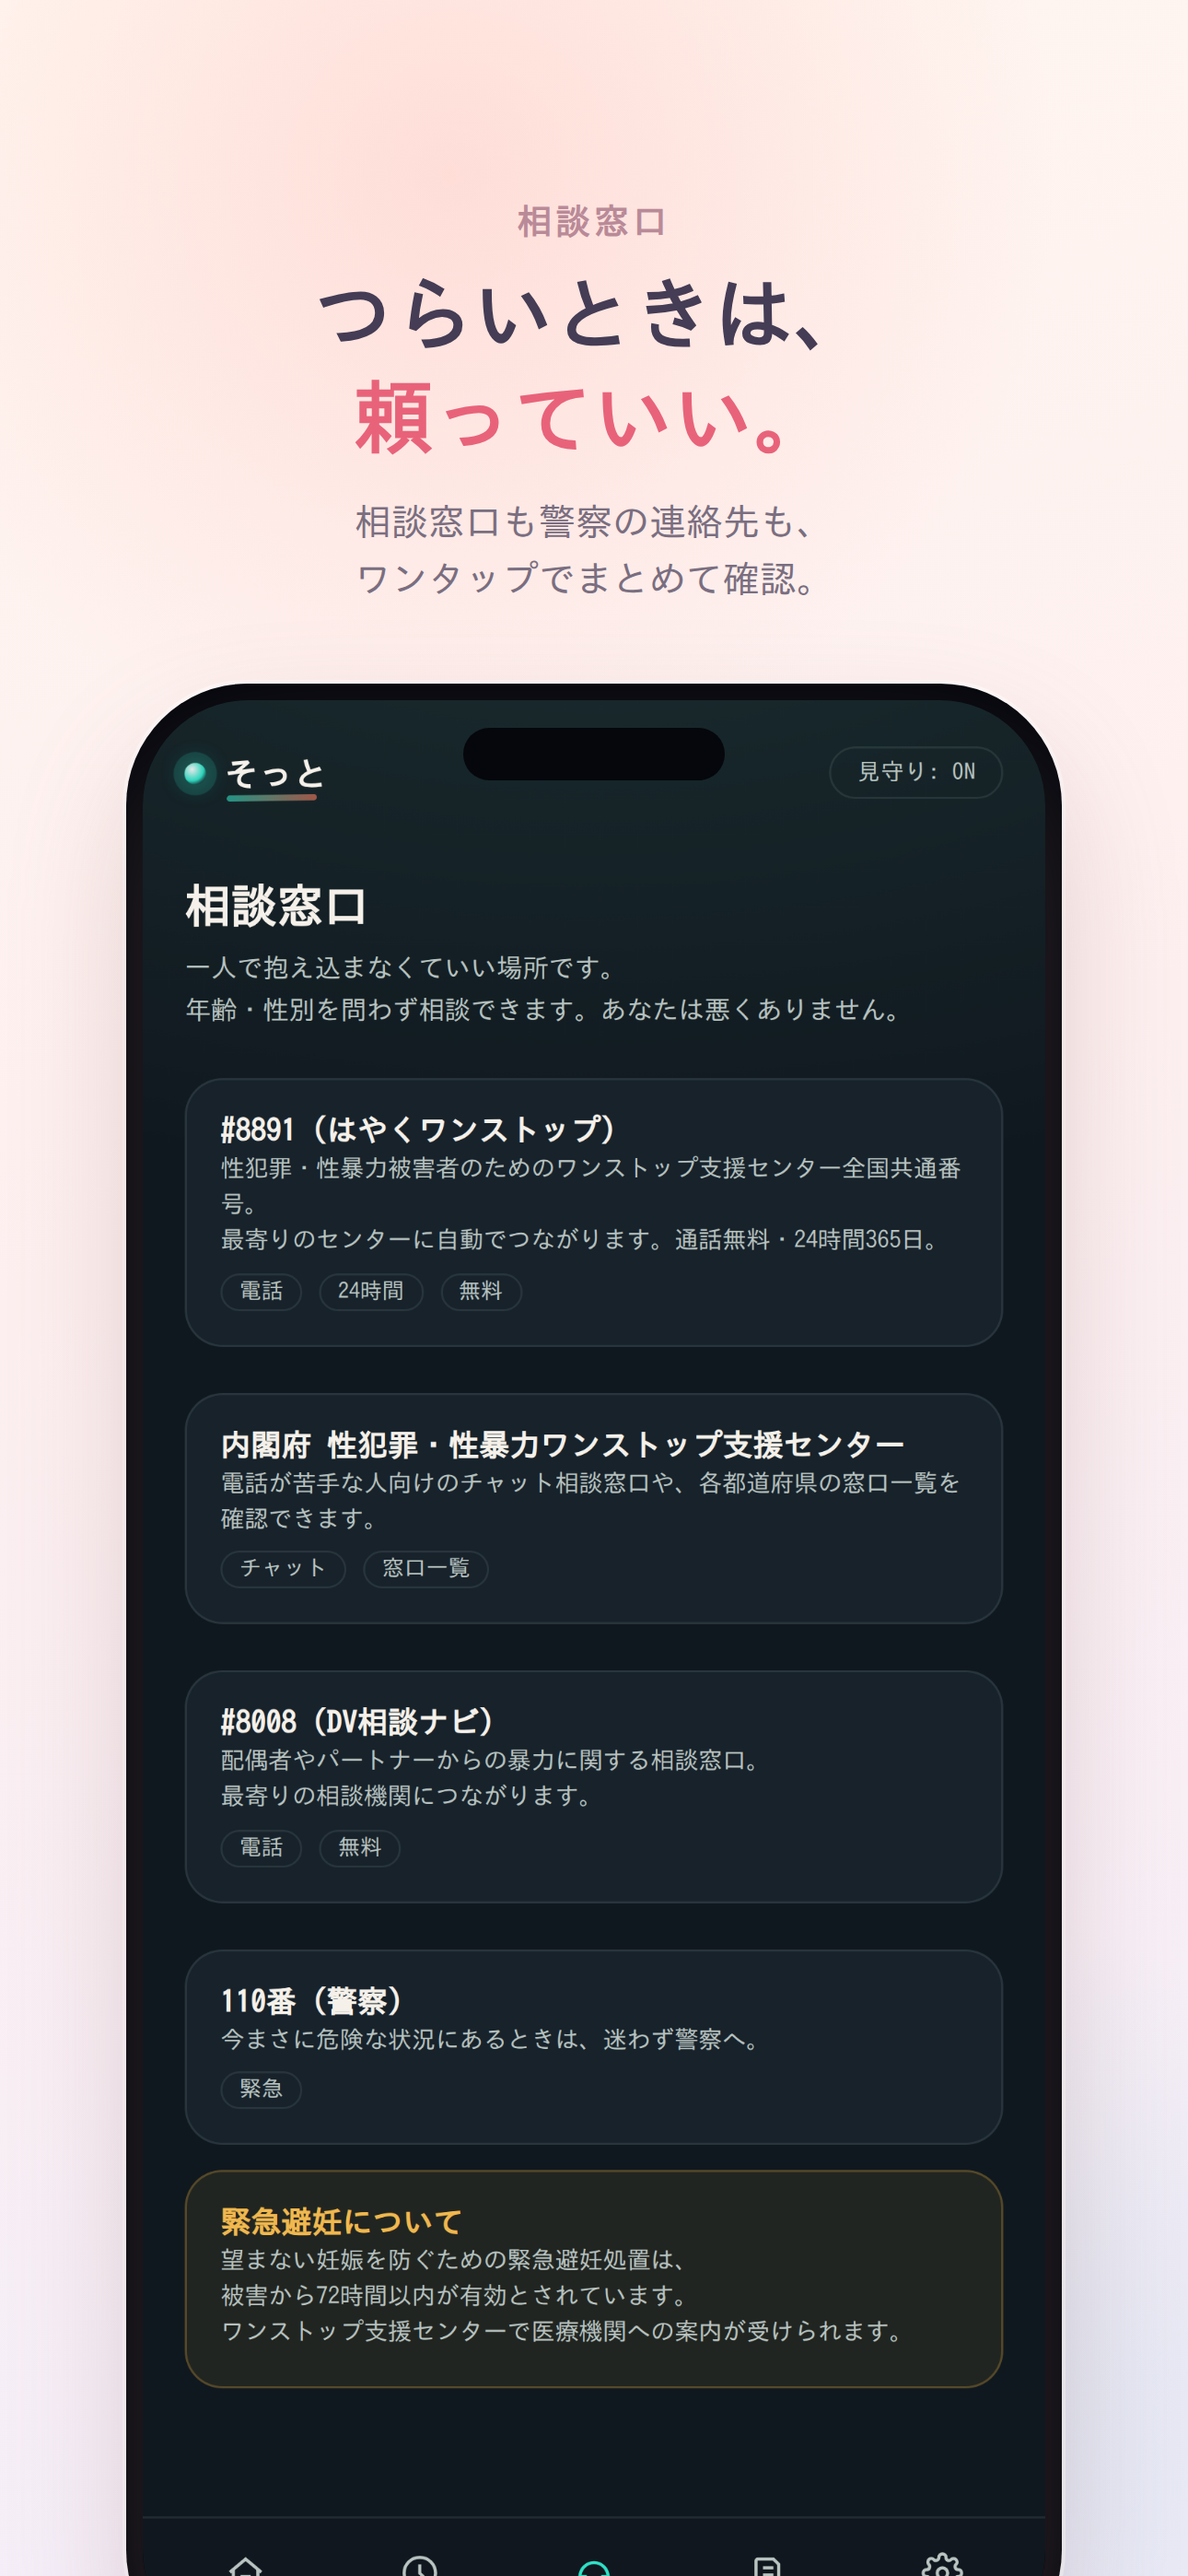
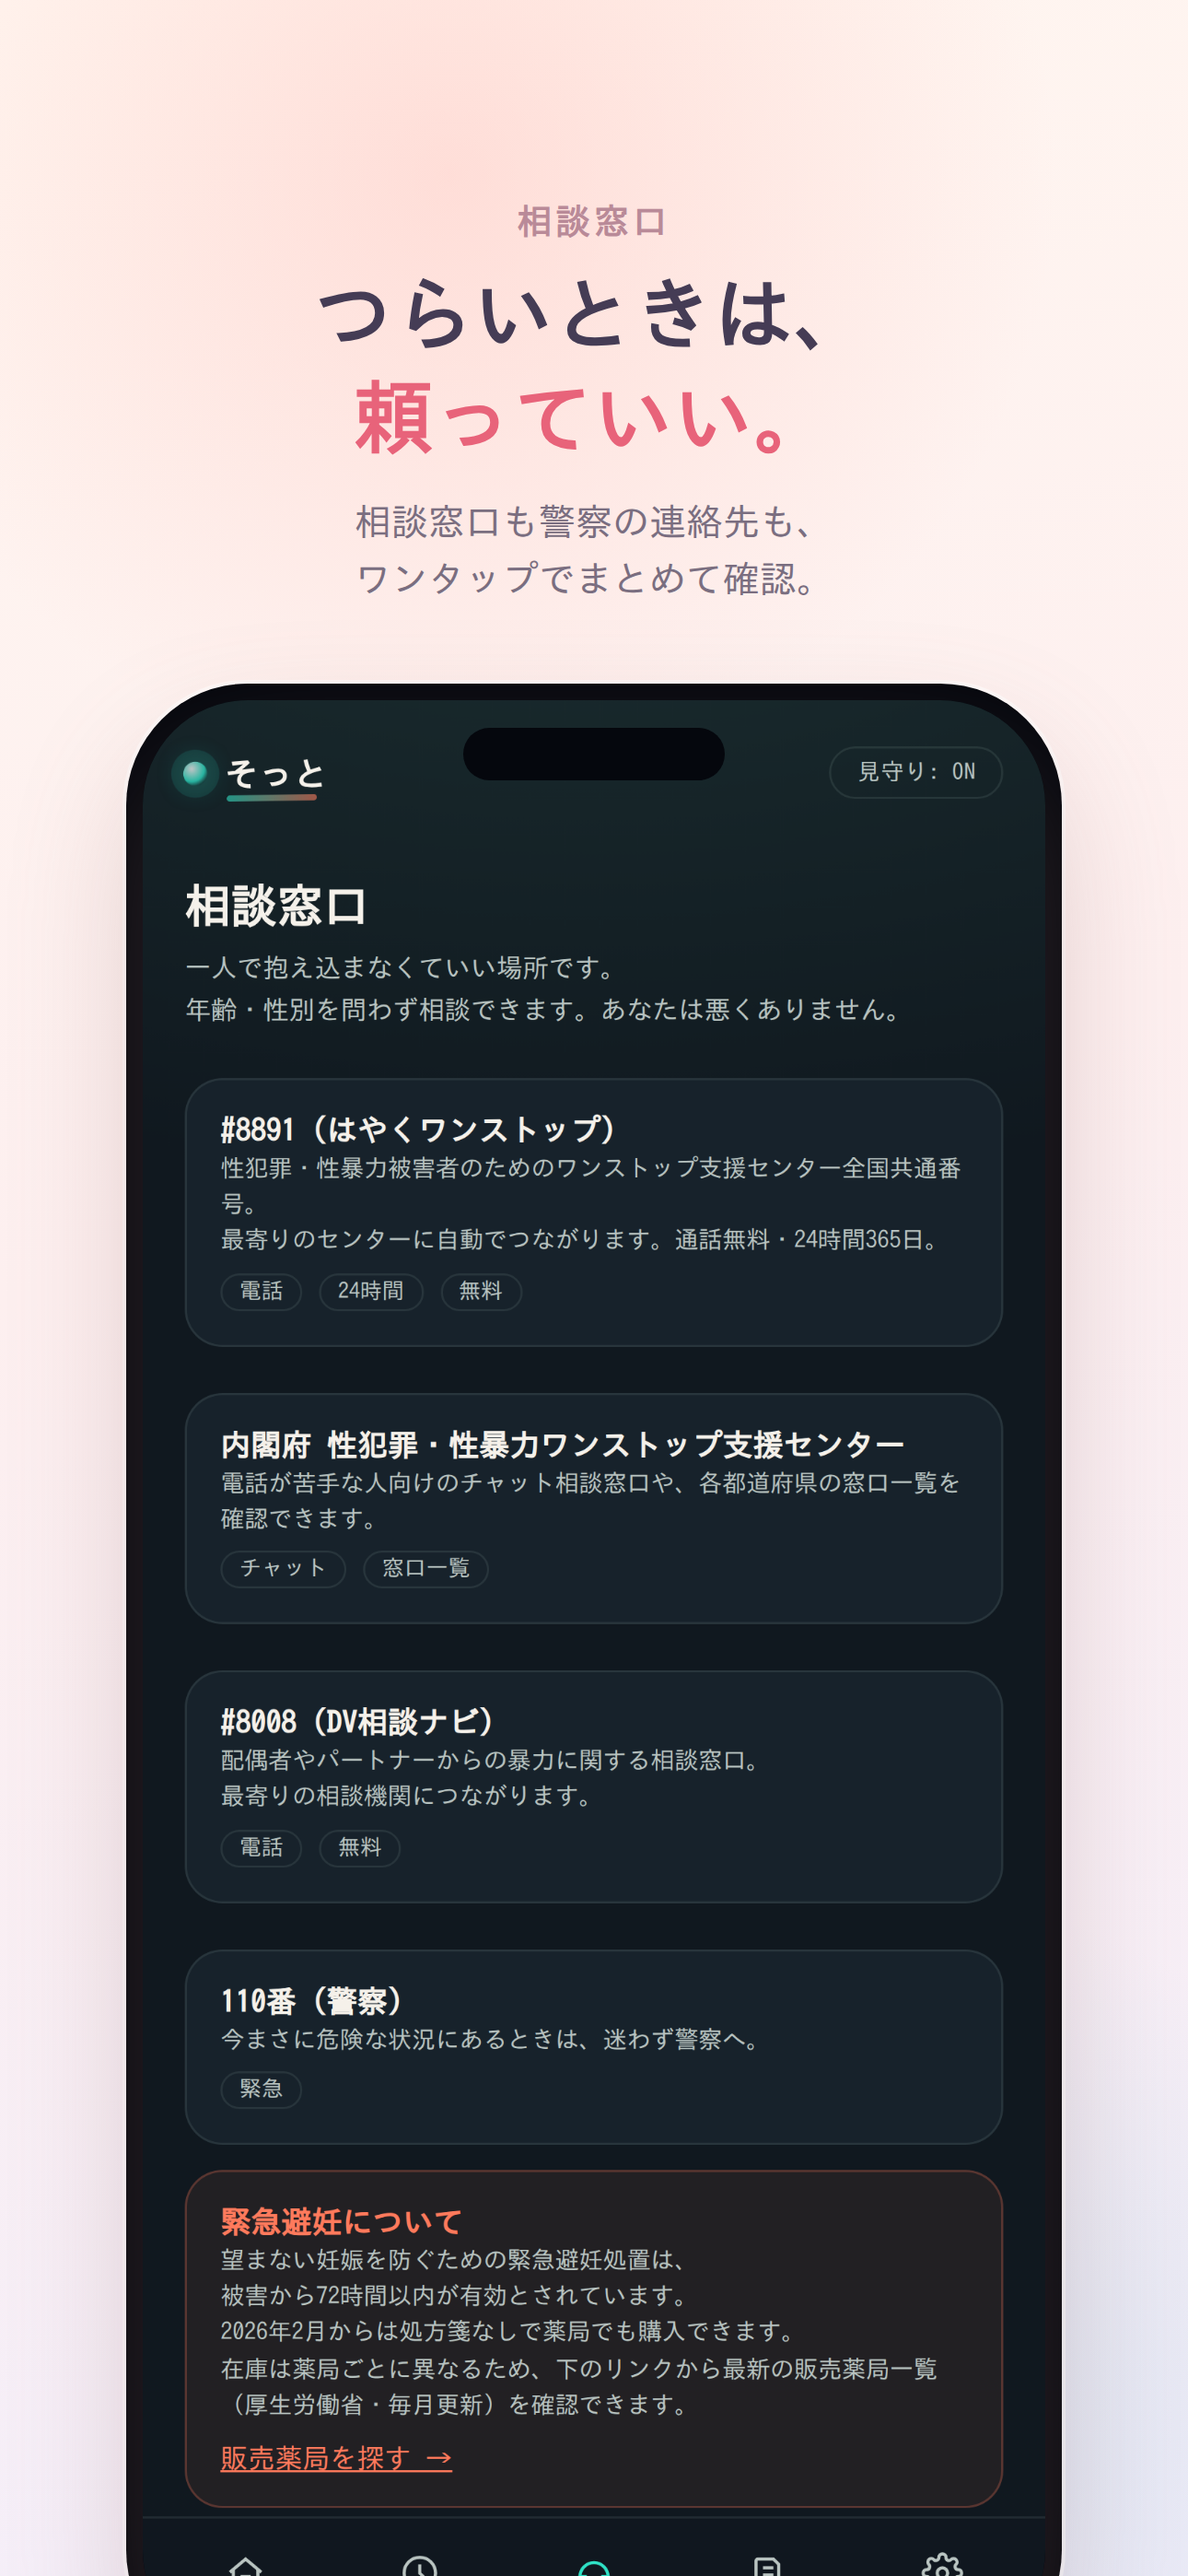
Add a link to the current pharmacy list on the emergency contraception notice
Static in-app text can't stay accurate about which pharmacies currently
stock/sell emergency contraception (OTC sales began 2026-02-02, and
stock varies by pharmacy month to month). Rather than trying to embed
that as data that would go stale, link out to the government's own
monthly-updated list (MHLW, verified via WebFetch: "要指導医薬品である
緊急避妊薬の販売が可能な薬局等の一覧").

Extended SupportResource so an "info" notice can optionally carry a
link (shown as a separate labeled tap target, not a silently-tappable
whole card), rather than adding a new resource type. Applied to both
the real app's resources.json/ResourcesView and the prototype.

Changed region(s): [[0.186, 0.9024, 0.8062, 0.9646], [0.186, 0.8401, 0.3101, 0.8712], [0.155, 0.28, 0.186, 0.3112]]

diff --git a/SafeLineiOS/SafeLine/Views/ResourcesView.swift b/SafeLineiOS/SafeLine/Views/ResourcesView.swift
@@ -58,16 +58,28 @@ struct ResourcesView: View {
         .cornerRadius(16)
     }
 
-    /// A static, non-tappable notice — e.g. "緊急避妊について" — styled distinctly
-    /// so it doesn't read as one more actionable contact in the list.
+    /// A notice — e.g. "緊急避妊について" — styled distinctly so it doesn't read as
+    /// one more actionable contact in the list. If `value` carries a link (a
+    /// government page that's kept current on its own, e.g. the monthly-updated
+    /// pharmacy list), show it as a separate, clearly-labeled tap target below
+    /// the notice text rather than making the whole card silently tappable.
     private func noticeCard(_ resource: SupportResource) -> some View {
-        VStack(alignment: .leading, spacing: 6) {
+        VStack(alignment: .leading, spacing: 10) {
             Text(resource.title)
                 .font(.system(size: 16, weight: .semibold, design: .rounded))
                 .foregroundColor(.safeCoral)
             Text(resource.desc)
                 .font(.system(size: 12.5, design: .rounded))
                 .foregroundColor(.safeTextDim)
+            if let url = resource.actionURL {
+                Button {
+                    UIApplication.shared.open(url)
+                } label: {
+                    Text((resource.tags.first ?? "詳しく見る") + " →")
+                        .font(.system(size: 13, weight: .semibold, design: .rounded))
+                        .foregroundColor(.safeCoral)
+                }
+            }
         }
         .padding(16)
         .frame(maxWidth: .infinity, alignment: .leading)

diff --git a/prototype/safeline.html b/prototype/safeline.html
@@ -577,9 +577,11 @@
       <div class="res-meta"><span class="tag">緊急</span></div>
     </a>
 
-    <div class="card" style="background:rgba(245,185,66,0.08); border-color:rgba(245,185,66,0.25);">
-      <div class="card-title" style="color:var(--amber);">緊急避妊について</div>
-      <div class="card-desc">望まない妊娠を防ぐための緊急避妊処置は、<br>被害から72時間以内が有効とされています。<br>ワンストップ支援センターで医療機関への案内が受けられます。</div>
+    <div class="card" style="background:rgba(255,122,92,0.08); border-color:rgba(255,122,92,0.25);">
+      <div class="card-title" style="color:var(--coral);">緊急避妊について</div>
+      <div class="card-desc">望まない妊娠を防ぐための緊急避妊処置は、<br>被害から72時間以内が有効とされています。<br>2026年2月からは処方箋なしで薬局でも購入できます。<br>在庫は薬局ごとに異なるため、下のリンクから最新の販売薬局一覧（厚生労働省・毎月更新）を確認できます。</div>
+      <a href="https://www.mhlw.go.jp/stf/kinnkyuuhininnyaku_00005.html" target="_blank" rel="noopener"
+         style="display:inline-block; margin-top:10px; font-size:13px; font-weight:600; color:var(--coral);">販売薬局を探す →</a>
     </div>
   </div>
 

diff --git a/SafeLineiOS/SafeLine/Models/SupportResource.swift b/SafeLineiOS/SafeLine/Models/SupportResource.swift
@@ -4,7 +4,10 @@ struct SupportResource: Codable, Identifiable {
     var id: String { title }
     let title: String
     let desc: String
-    let type: String   // "tel", "url", or "info" (no action — a static notice card)
+    /// "tel", "url", or "info" (a notice card — non-actionable unless `value`
+    /// carries a link, e.g. to a government page that stays current on its own
+    /// rather than data this static bundle would need to keep re-shipping).
+    let type: String
     let value: String
     let tags: [String]
 
@@ -12,6 +15,7 @@ struct SupportResource: Codable, Identifiable {
         switch type {
         case "tel": return URL(string: "tel:\(value)")
         case "url": return URL(string: value)
+        case "info": return value.isEmpty ? nil : URL(string: value)
         default: return nil
         }
     }
